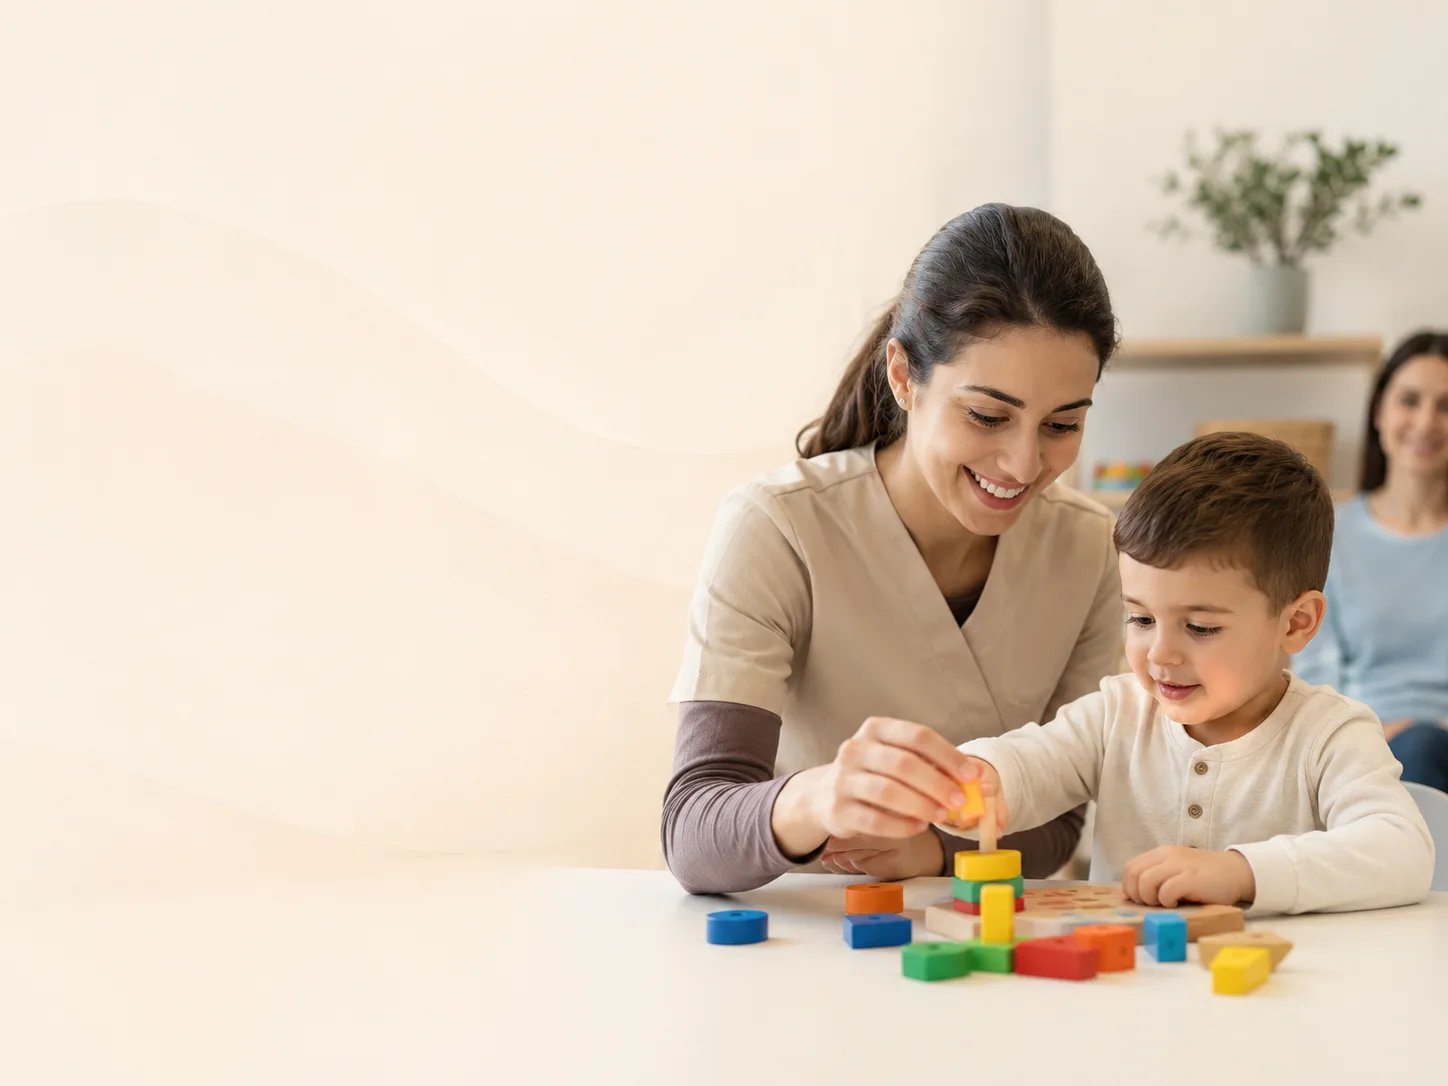
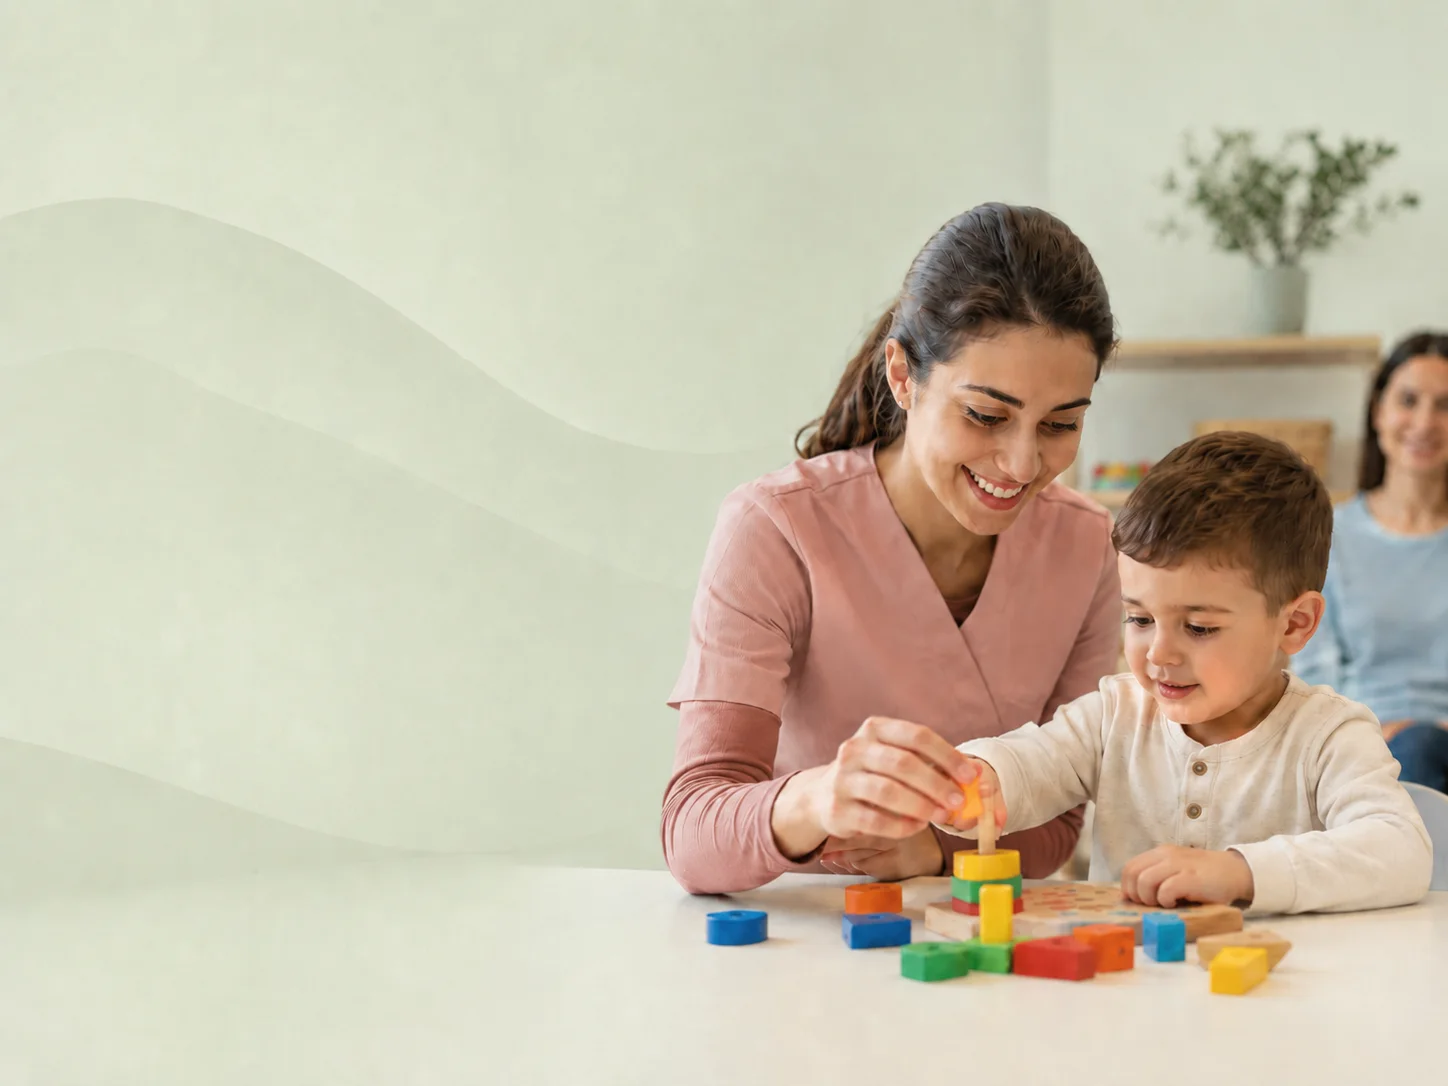
Swap in the recoloured homepage hero
Client re-toned the hero background; the desktop readability layer drops
from a 70% cream wash to 35% with no midpoint so the new colouring shows
through rather than being washed out. Mobile keeps its stronger overlay
since the photo is cropped there.

diff --git a/site/index.html b/site/index.html
@@ -247,7 +247,7 @@ tailwind.config = { theme: { extend: {
          width="1448" height="1086"
          class="absolute inset-0 w-full h-full object-cover [object-position:72%_50%] lg:object-center">
     <!-- Metnin okunmasi icin sicak katman: mobilde dikey, masaustunde yatay -->
-    <div class="absolute inset-0 bg-gradient-to-b from-cream via-cream/80 to-cream/40 lg:bg-gradient-to-r lg:from-cream/70 lg:via-cream/25 lg:to-transparent" aria-hidden="true"></div>
+    <div class="absolute inset-0 bg-gradient-to-b from-cream via-cream/80 to-cream/40 lg:bg-gradient-to-r lg:from-cream/35 lg:via-transparent lg:to-transparent" aria-hidden="true"></div>
 
     <div class="relative w-full max-w-[1440px] mx-auto px-6 pt-28 pb-12 sm:pt-32 sm:pb-16">
       <div class="max-w-2xl">
